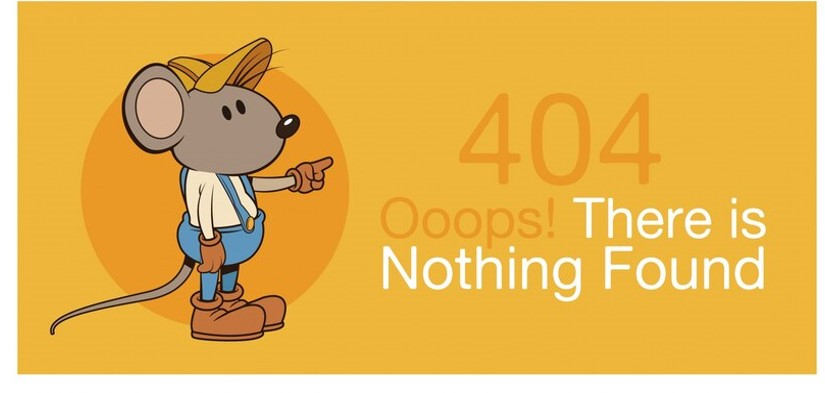
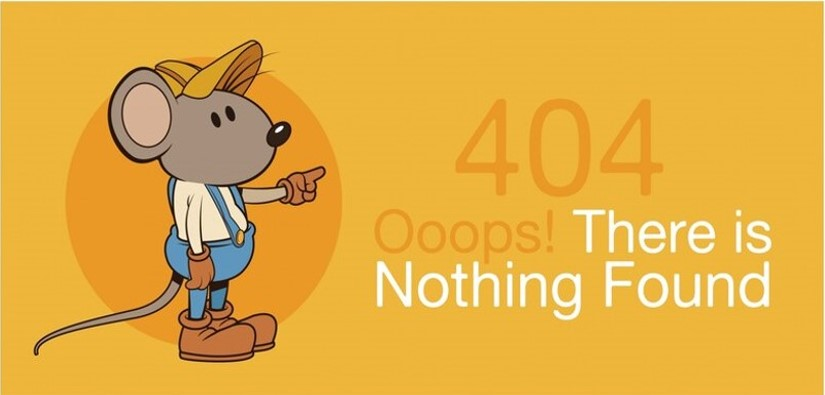
404

diff --git a/src/app/component/error/error.component.css b/src/app/component/error/error.component.css
@@ -4,10 +4,10 @@ img{
   margin: auto;
   margin-top: 90px;
   transform: translate3d(1px,1px,20em);
-  box-shadow: 3px 3px 10px 10px white;
+  box-shadow: 3px 3px 10px 10px #f7e3ac;
 }
 body{
-  background-color: #ffeebf;
+  /* background-color: #ffeebf; */
   margin-top: -28px;
   text-align: center;
 

diff --git a/src/app/share/footer/footer.component.css b/src/app/share/footer/footer.component.css
@@ -14,7 +14,7 @@ body {
   align-items: flex-end;
   margin: -8px ;
   height: 350px;
- 
+
   /* -webkit-margin-start: 0px;
   -webkit-margin-end: 0px; */
 
@@ -31,7 +31,7 @@ body {
   justify-content: end;
   align-items: center;
   flex-direction: column;
-  
+
 }
 
 .social-icon,

diff --git a/src/app/component/error/error.component.html b/src/app/component/error/error.component.html
@@ -1,5 +1,5 @@
 
 <body>
-  <img src="../../../assets/images/Error-4042.jpg" class="img-fluid">
+  <img src="../../../assets/images/Error-404.jpg" class="img-fluid">
 
 </body>
